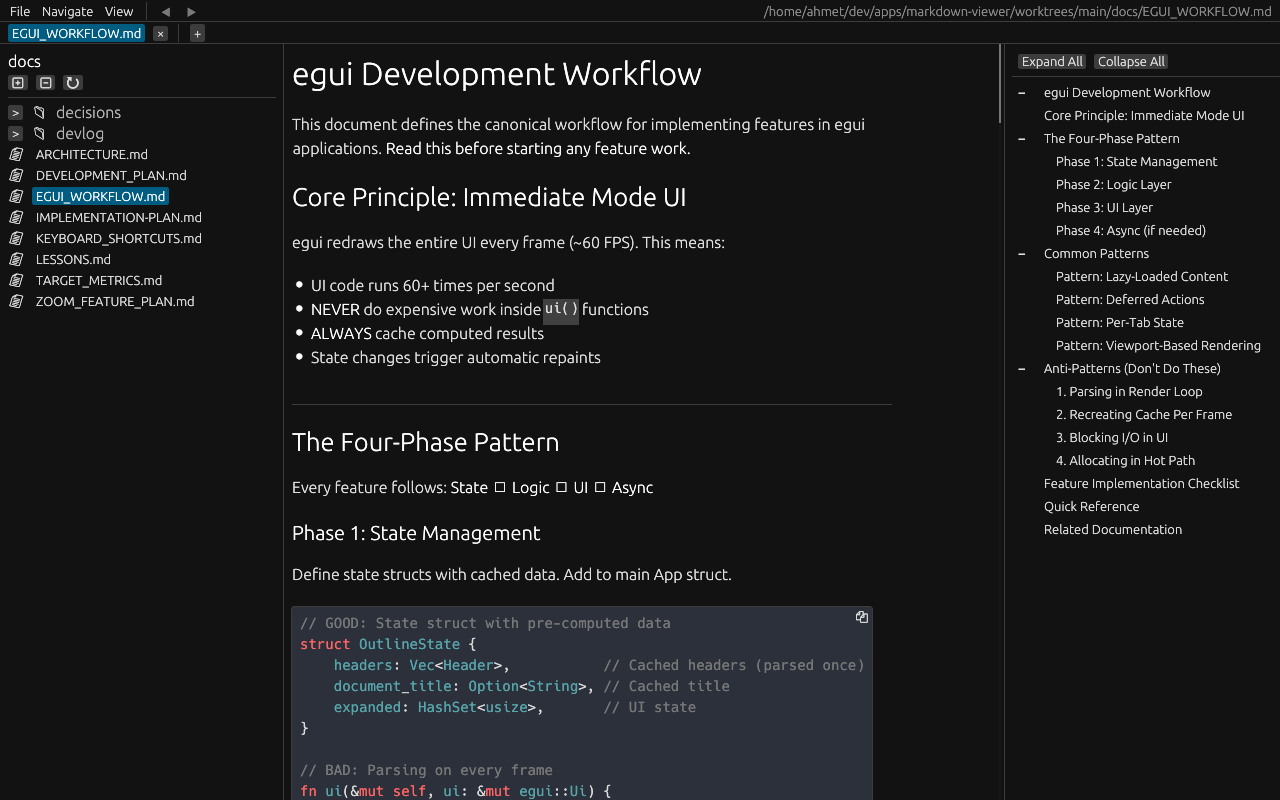
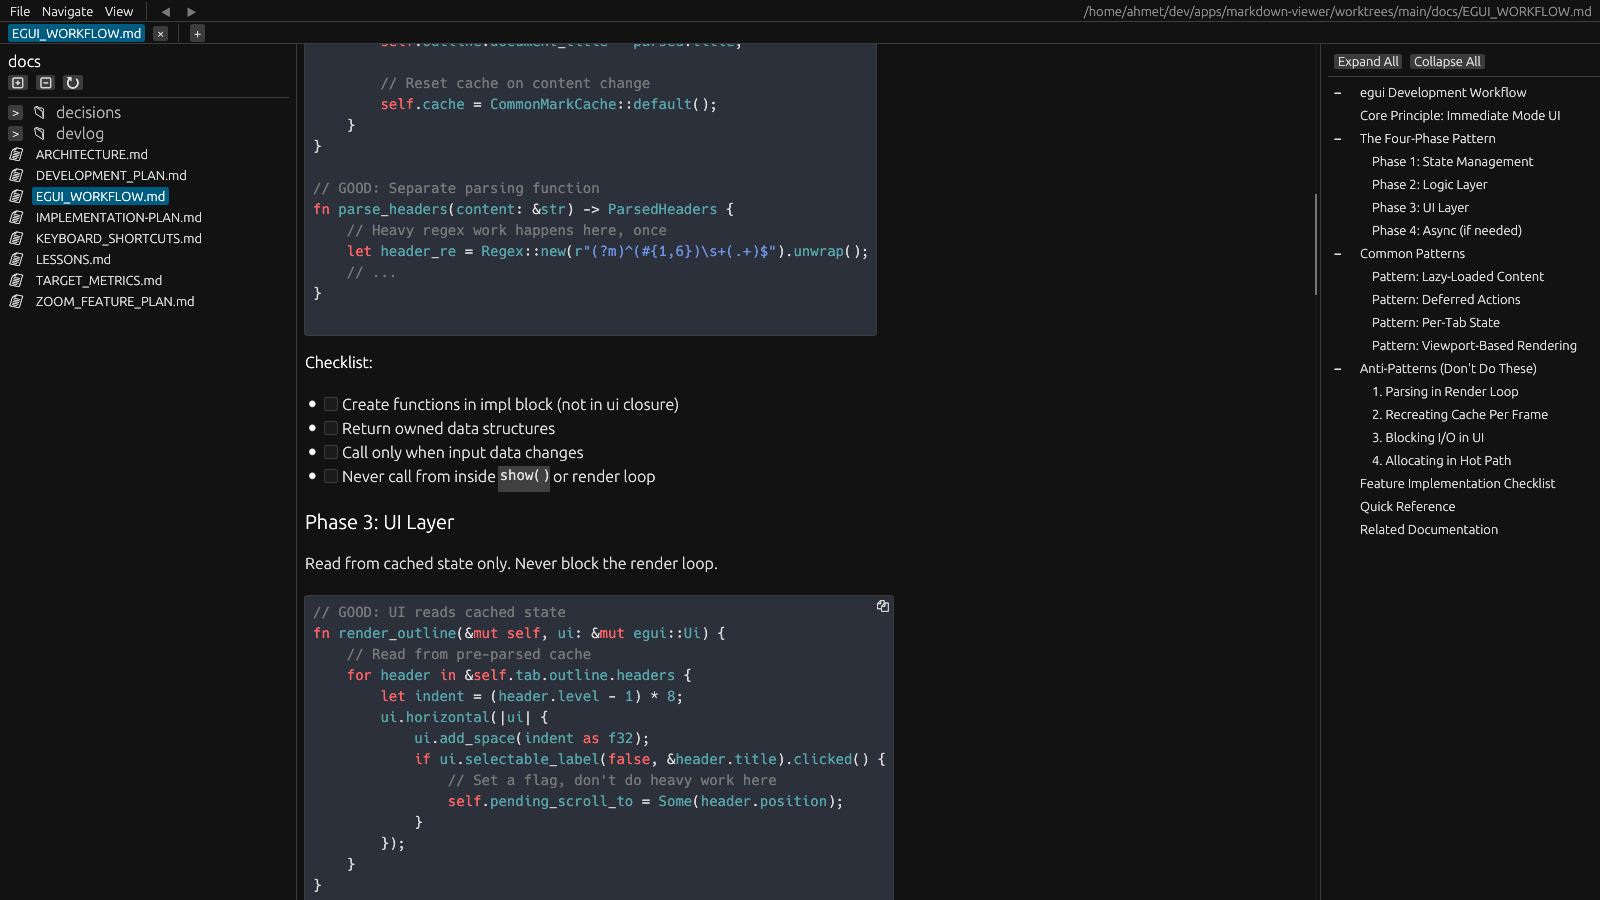
docs: update README with latest features and refresh screenshots
- Add Unicode support (Noto, DejaVu font fallbacks) to features
- Add remote/HTTP image loading to Images & SVG feature
- Add Navigation Buttons feature (back/forward in title bar)
- Update File Explorer description (lazy-loading, right-click copy)
- Refresh all screenshots using EGUI_WORKFLOW.md to show clean
  Rust syntax highlighting without embedded image artifacts

Changed region(s): [[0.0, 0.0, 0.6875, 1.0], [0.5938, 0.0, 1.0, 0.6875], [0.5938, 0.1562, 0.625, 0.1875]]

diff --git a/README.md b/README.md
@@ -15,15 +15,17 @@ A fast, lightweight markdown viewer for Linux built with Rust and egui. Designed
 ### Rendering
 - **GitHub Flavored Markdown** - Full GFM support including tables, task lists, and footnotes
 - **Syntax Highlighting** - 200+ languages via syntect with beautiful color schemes
-- **Images & SVG** - Embedded image support (PNG, JPEG, GIF, SVG)
+- **Images & SVG** - Embedded and remote image support (PNG, JPEG, GIF, SVG, HTTP URLs)
+- **Unicode Support** - System font fallbacks (Noto, DejaVu) for emojis, CJK, and non-Latin scripts
 - **60 FPS Rendering** - Smooth scrolling with viewport-based lazy rendering
 - **Typography** - 1.5x line height for optimal readability (WCAG 2.1 compliant)
 
 ### Navigation
 - **Tab System** - Open multiple documents with tab bar (Ctrl+Click links to open in new tab)
-- **File Explorer** - Hierarchical sidebar showing markdown files in the directory
+- **File Explorer** - Hierarchical sidebar with lazy-loading directories, right-click to copy file contents
 - **Outline Sidebar** - Click-to-navigate table of contents from document headers
-- **Per-Tab History** - Back/forward navigation within each tab (Alt+Left/Right)
+- **Navigation Buttons** - Back/forward buttons in title bar for quick history navigation
+- **Per-Tab History** - Independent back/forward navigation within each tab (Alt+Left/Right)
 - **Internal Links** - Navigate between markdown files with relative links
 
 ### View
@@ -40,17 +42,17 @@ A fast, lightweight markdown viewer for Linux built with Rust and egui. Designed
 ## Screenshots
 
 ### Dark Mode
-*File explorer, document outline, and tabbed browsing*
+*File explorer, document outline, and Rust syntax highlighting*
 
 ![Dark Mode](screenshots/dark-mode.png)
 
-### Light Mode with Syntax Highlighting
-*Code blocks with 200+ language support via syntect*
+### Light Mode
+*Clean light theme with the same powerful features*
 
 ![Light Mode](screenshots/light-mode.png)
 
-### Dark Mode with Code
-*Consistent syntax highlighting across themes*
+### Syntax Highlighting
+*200+ languages with semantic coloring for keywords, types, and comments*
 
 ![Syntax Highlighting](screenshots/syntax-highlighting.png)
 
